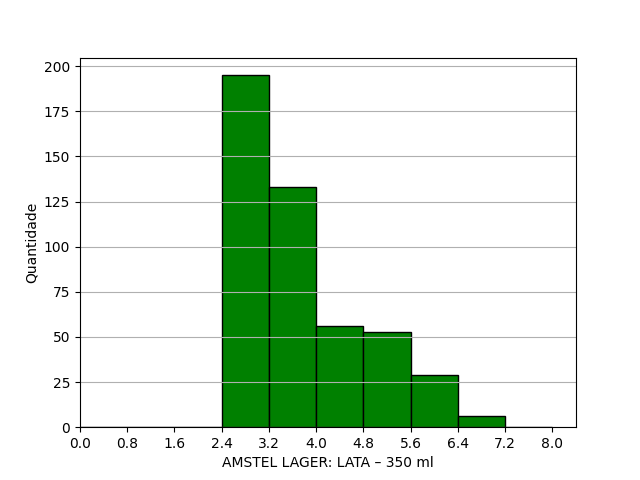
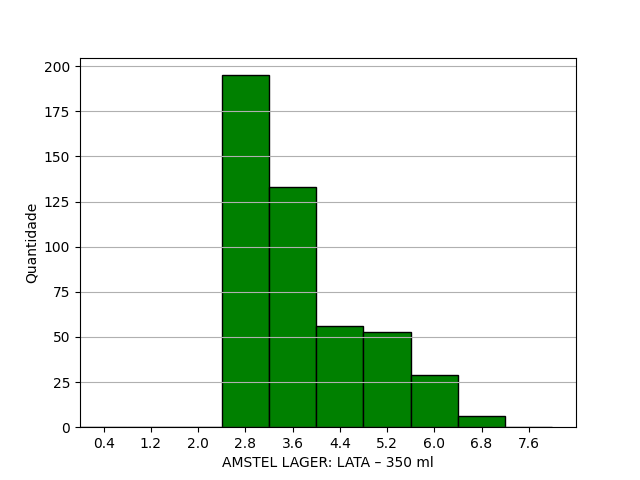
Fix xticks for classes mean points in hist

Changed region(s): [[0.0938, 0.9062, 0.875, 0.9375]]

diff --git a/main.py b/main.py
@@ -58,7 +58,9 @@ def plot_beer_df_hist(beer_df:pd.DataFrame, x_label:str, show:bool = False) -> N
         show (bool, optional): Determines if the histogram will be shown. Defaults to False.
     """
     n, bins, patches = plt.hist(beer_df, color='green', edgecolor='black', cumulative=False, range=(0,8))
-    plt.xticks(bins)
+    bins = list(bins)
+    mean_points = calculate_mean_points_for_hist(bins)
+    plt.xticks(mean_points)
     plt.xlabel(x_label)
     plt.ylabel("Quantidade")
     plt.xlim(left=0)
@@ -69,8 +71,17 @@ def plot_beer_df_hist(beer_df:pd.DataFrame, x_label:str, show:bool = False) -> N
 
     if show:
         plt.show() 
-        
+
     plt.close()
+
+
+def calculate_mean_points_for_hist(bins:list[float]) -> list[float]:
+    mean_points = []
+    for point in range(len(bins)-1):
+        mean_points.append((bins[point] + bins[point+1]) / 2)
+    mean_points = np.array(mean_points)
+
+    return mean_points
 
 
 def calculate_beer_df_stats(beer_df:pd.DataFrame, file_name:str) -> pd.DataFrame:
@@ -222,8 +233,8 @@ x_label_2 = "BECKS: LATA – 350 ml"
 
 if __name__ == "__main__":
     #Comparing the beers
-    beer_1_df, beer_1_df_stats, beer_1_df_outliers = analyze_beer_data(brand=brand_1, filtered_column=product_1, x_label=x_label_1, show=True)
-    beer_2_df, beer_2_df_stats, beer_2_df_outliers = analyze_beer_data(brand=brand_2, filtered_column=product_2, x_label=x_label_2, show=True)
+    beer_1_df, beer_1_df_stats, beer_1_df_outliers = analyze_beer_data(brand=brand_1, filtered_column=product_1, x_label=x_label_1, show=False)
+    beer_2_df, beer_2_df_stats, beer_2_df_outliers = analyze_beer_data(brand=brand_2, filtered_column=product_2, x_label=x_label_2, show=False)
 
     compare_beers_data(beer_dfs = [beer_1_df, beer_2_df], x_labels = [x_label_1, x_label_2], beers_stats=[beer_1_df_stats, beer_2_df_stats], 
                        beers_outliers=[beer_1_df_outliers, beer_2_df_outliers], 
